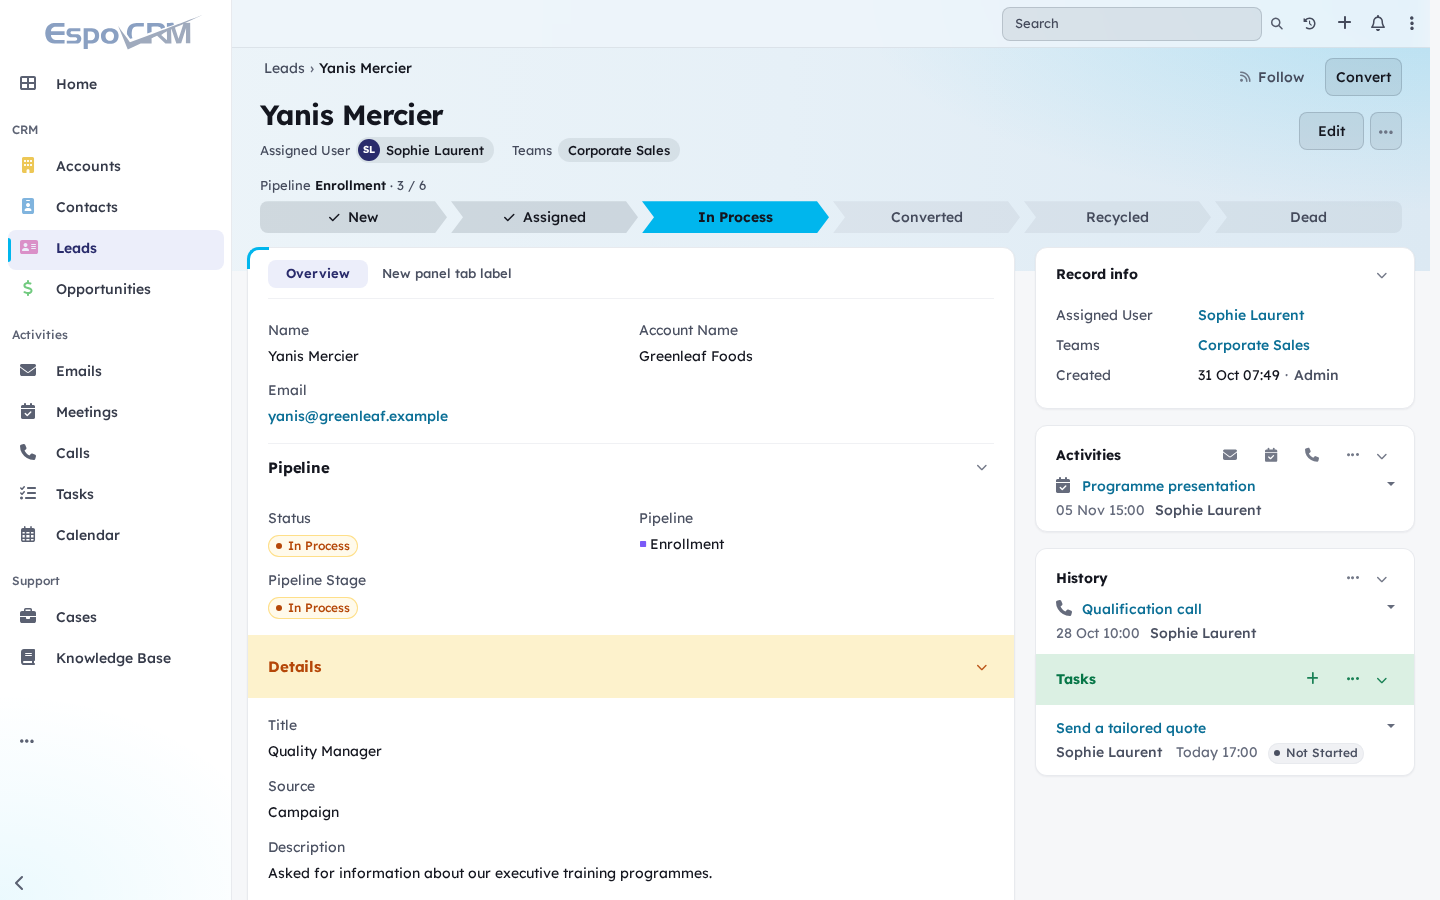
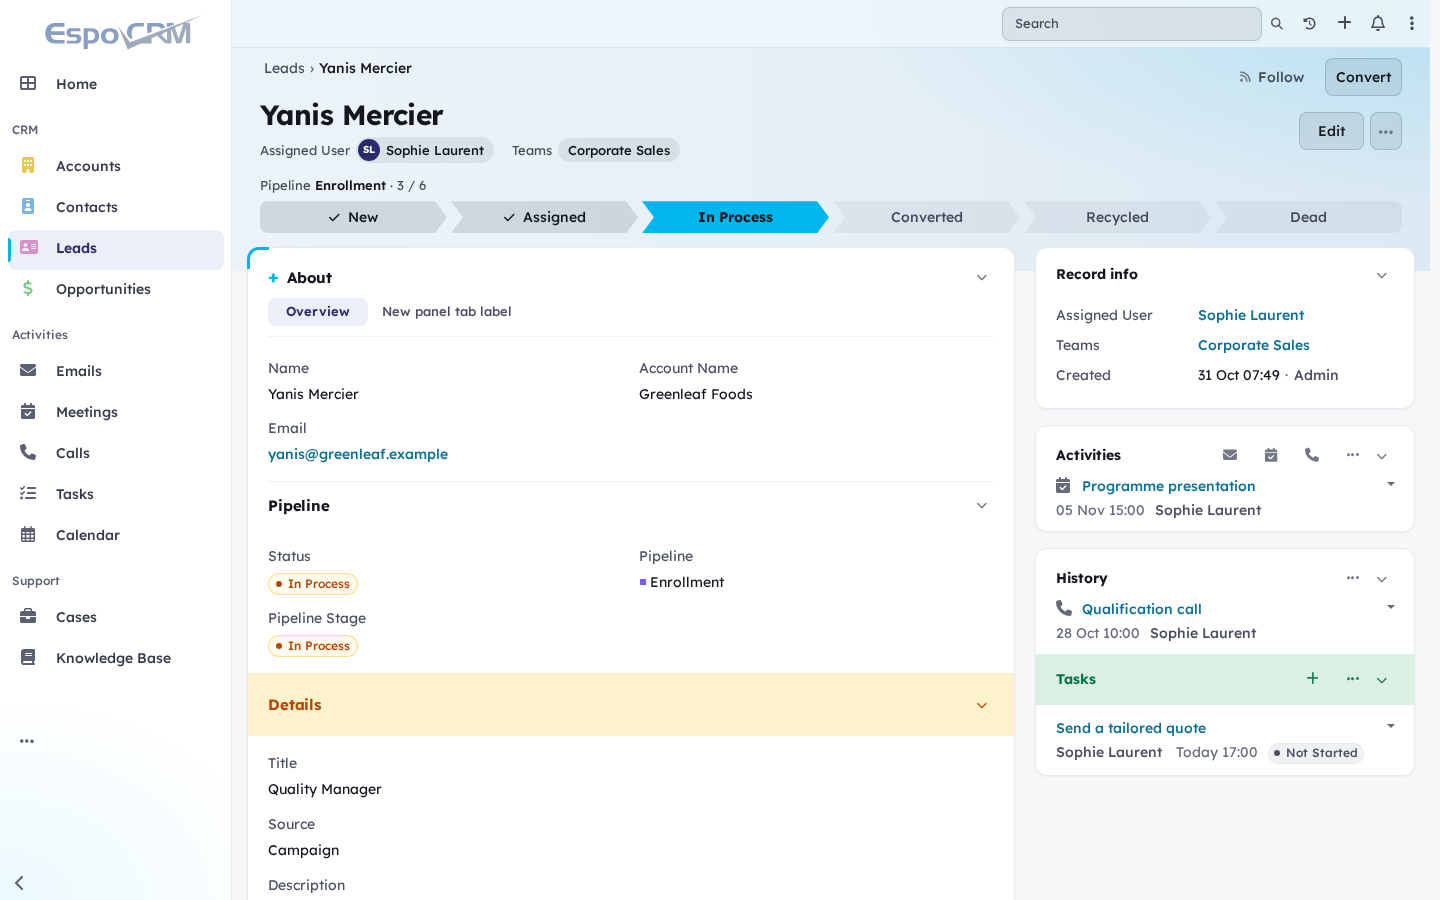
feat: Lucid Classic and Lucid Split names, collapsible main blocks
- The themes are displayed as Lucid Classic and Lucid Split. The internal key
  of Lucid Split stays `Lucid`, so nobody loses their theme on upgrade.
- The fields card of Lucid Classic gets the "About" title and folds like the
  other blocks.
- The bottom panels block folds in both themes: the tab bar is its heading,
  and a click on a tab opens it again.
- A clicked chevron no longer keeps a grey background.

diff --git a/src/files/client/custom/modules/lucid-theme/css/lucid-detail.css b/src/files/client/custom/modules/lucid-theme/css/lucid-detail.css
@@ -724,7 +724,7 @@ button.lucid-step-inner:focus-visible {
 /* Classic layout: fields and bottom panels on the left, side panels on the right */
 .lucid-layout-classic .lucid-content-card {
     position: relative;
-    padding-top: var(--12px);
+    padding-top: var(--16px);
 }
 
 .lucid-layout-classic > .lucid-inspector > .side {
@@ -924,6 +924,7 @@ body.lucid-resizing * {
 
 /* ===== Main column: tabs ===== */
 .lucid-record .bottom.lucid-bottom {
+    position: relative;
     display: flex;
     flex-direction: column;
     gap: var(--20px);
@@ -940,7 +941,7 @@ body.lucid-resizing * {
     align-items: flex-end;
     gap: 2px;
     margin: 0 calc(var(--18px) * -1);
-    padding: 0 var(--14px);
+    padding: 0 44px 0 var(--14px);
     border-bottom: 1px solid var(--lucid-border);
     overflow-x: auto;
 }
@@ -1343,18 +1344,35 @@ body.lucid-resizing * {
     color: var(--lucid-text);
 }
 
+/* No lingering background after a mouse click: keyboard focus stays visible */
+.lucid-record .lucid-collapse:focus:not(:focus-visible):not(:hover) {
+    background: transparent;
+}
+
 .lucid-record .lucid-collapse .fas {
     font-size: 11px;
     transition: transform var(--lucid-fast) var(--lucid-ease);
 }
 
+/* The tab bar scrolls sideways: its chevron is placed from the block, and stays visible */
+.lucid-tabbar > .lucid-collapse {
+    position: absolute;
+    top: 12px;
+    right: var(--14px);
+}
+
 .lucid-collapsed > .panel-heading > .lucid-collapse .fas,
+.lucid-content-card.lucid-collapsed > .lucid-inspector-title .lucid-collapse .fas,
+.lucid-main.lucid-collapsed .lucid-tabbar > .lucid-collapse .fas,
 .lucid-inspector.lucid-collapsed > .lucid-inspector-card .lucid-inspector-title .lucid-collapse .fas {
     transform: rotate(-90deg);
 }
 
 /* Collapsed: only the heading remains. While editing, everything is open and the chevron disappears. */
 .lucid-record:not(:has(.lucid-band .edit-buttons:not(.hidden))) .panel.lucid-collapsed > :not(.panel-heading),
+.lucid-record:not(:has(.lucid-band .edit-buttons:not(.hidden))) .lucid-content-card.lucid-collapsed > :not(.lucid-inspector-title),
+.lucid-record:not(:has(.lucid-band .edit-buttons:not(.hidden))) .lucid-main.lucid-collapsed > .extra,
+.lucid-record:not(:has(.lucid-band .edit-buttons:not(.hidden))) .lucid-main.lucid-collapsed .lucid-bottom > :not(.lucid-tabbar),
 .lucid-record:not(:has(.lucid-band .edit-buttons:not(.hidden))) .lucid-inspector.lucid-collapsed > .lucid-inspector-card > :not(.lucid-inspector-title),
 .lucid-record:not(:has(.lucid-band .edit-buttons:not(.hidden))) .lucid-inspector.lucid-collapsed:not(:has(> .lucid-inspector-card > .middle)) > .side > .panel[data-name="default"] {
     display: none;
@@ -1367,8 +1385,17 @@ body.lucid-resizing * {
     box-shadow: var(--lucid-shadow-xs);
 }
 
+.lucid-record:not(:has(.lucid-band .edit-buttons:not(.hidden))) .lucid-content-card.lucid-collapsed > .lucid-inspector-title,
 .lucid-record:not(:has(.lucid-band .edit-buttons:not(.hidden))) .lucid-inspector.lucid-collapsed > .lucid-inspector-card .lucid-inspector-title {
     margin-bottom: 0;
+}
+
+.lucid-record:not(:has(.lucid-band .edit-buttons:not(.hidden))) .lucid-main.lucid-collapsed .bottom.lucid-bottom {
+    padding-bottom: 0;
+}
+
+.lucid-record:not(:has(.lucid-band .edit-buttons:not(.hidden))) .lucid-main.lucid-collapsed .lucid-tabbar {
+    border-bottom: 0;
 }
 
 .lucid-record:not(:has(.lucid-band .edit-buttons:not(.hidden))) .lucid-inspector.lucid-collapsed > .side {

diff --git a/src/files/client/custom/modules/lucid-theme/src/helpers/panel-collapse.js b/src/files/client/custom/modules/lucid-theme/src/helpers/panel-collapse.js
@@ -8,13 +8,14 @@ const PANEL_SELECTOR = [
 ].join(', ');
 
 /** Watched areas: panels are redrawn there after each change. */
-const WATCHED_SELECTOR = '.lucid-inspector, .lucid-content-card';
+const WATCHED_SELECTOR = '.lucid-inspector, .lucid-content-card, .lucid-main';
 
 /** Heading elements that keep their own click behaviour. */
 const INTERACTIVE_SELECTOR = 'a, button, input, select, [data-action], .dropdown-menu';
 
-/** Reserved name for the "About" card. */
+/** Reserved names for the "About" card and the bottom panels block. */
 const ABOUT = 'lucidAbout';
+const BOTTOM = 'lucidBottom';
 
 const STORAGE_TYPE = 'lucidCollapsedPanels';
 
@@ -103,6 +104,52 @@ export default class PanelCollapse {
         if (aboutTitle && aboutContent) {
             this.decorate(inspector, aboutTitle, aboutTitle.textContent.replace('+', '').trim(), ABOUT);
         }
+
+        this.decorateContentCard(root);
+        this.decorateBottom(root);
+    }
+
+    /**
+     * Classic layout: the fields card has the same "About" title as in Lucid Split.
+     *
+     * @private
+     * @param {HTMLElement} root
+     */
+    decorateContentCard(root) {
+        const card = root.querySelector('.lucid-layout-classic .lucid-content-card');
+        const title = card && card.querySelector(':scope > .lucid-inspector-title');
+
+        if (title) {
+            this.decorate(card, title, title.textContent.replace('+', '').trim(), ABOUT);
+        }
+    }
+
+    /**
+     * Bottom panels block: the tab bar is its heading. The bottom view rebuilds the bar when the
+     * tab changes, so it is decorated again each time. A click on a tab opens a collapsed block.
+     *
+     * @private
+     * @param {HTMLElement} root
+     */
+    decorateBottom(root) {
+        const main = root.querySelector('.lucid-main');
+        const bar = main && main.querySelector('.lucid-tabbar');
+
+        if (!bar) {
+            return;
+        }
+
+        if (!bar.querySelector(':scope > .lucid-collapse')) {
+            bar.addEventListener('click', event => {
+                if (event.target.closest('.lucid-tab') && this.collapsed.has(BOTTOM)) {
+                    this.toggle(BOTTOM);
+                }
+            });
+        }
+
+        const activeLabel = bar.querySelector('.lucid-tab[aria-pressed="true"] .lucid-tab-label');
+
+        this.decorate(main, bar, activeLabel ? activeLabel.textContent : bar.getAttribute('aria-label'), BOTTOM);
     }
 
     /**

diff --git a/src/files/client/custom/modules/lucid-theme/src/lucid.js b/src/files/client/custom/modules/lucid-theme/src/lucid.js
@@ -5,7 +5,10 @@
 /** Bottom panels of the Activity tab, below the quick actions. */
 export const ACTIVITY_PANELS = ['stream'];
 
-/** Theme with the classic layout: fields and bottom panels on the left, side panels on the right. */
+/**
+ * Theme with the classic layout: fields and bottom panels on the left, side panels on the right.
+ * The other theme keeps its original key, `Lucid`, and is displayed as Lucid Split.
+ */
 const CLASSIC_THEME = 'LucidClassic';
 
 /**

diff --git a/README.md b/README.md
@@ -26,10 +26,10 @@ stage moves the record along its pipeline.
 Installing the extension adds two entries to the theme list. They share the same design and features;
 only the arrangement of the record view changes.
 
-| **Lucid** (side by side) | **Lucid Classic** |
+| **Lucid Classic** | **Lucid Split** |
 |---|---|
-| ![Lucid: fields on the left, activity on the right](docs/screenshots/record-lead.png) | ![Lucid Classic: fields and bottom panels on the left, side panels on the right](docs/screenshots/record-lead-classic.png) |
-| Fields on the left, bottom panels on the right: the activity is visible as soon as the record opens | Fields and bottom panels on the left, side panels on the right, as in stock EspoCRM |
+| ![Lucid Classic: fields and bottom panels on the left, side panels on the right](docs/screenshots/record-lead-classic.png) | ![Lucid Split: fields on the left, activity on the right](docs/screenshots/record-lead.png) |
+| Fields and bottom panels on the left, side panels on the right, as in stock EspoCRM | Fields on the left, bottom panels on the right: the activity is visible as soon as the record opens |
 
 The administrator sets the default in **Administration > User Interface**, and each user can pick
 another one in **Preferences**.
@@ -47,7 +47,7 @@ All data in the screenshots is fictitious.
 
 ## Features
 
-- **Side-by-side record view** (Lucid). The **About** card on the left holds the layout panels as a
+- **Side-by-side record view** (Lucid Split). The **About** card on the left holds the layout panels as a
   compact property list (tab breaks become small pill tabs), followed by a **Record info** card
   (assigned user, teams, dates, followers) and the side panels (Activities, History, Tasks…). The
   right column starts with the **Stream** tab — quick actions (Note, Email, Call, Meeting, Task)
@@ -58,8 +58,9 @@ All data in the screenshots is fictitious.
   entities with an active pipeline, the stage path (click a stage to move the record if you may
   edit it). On narrow screens the path folds into the current stage and a progress bar; tap it to
   see every stage.
-- **Collapsible blocks.** About, Record info, the side panels and each layout panel fold like an
-  accordion. The state is remembered per user and record type; everything opens while editing.
+- **Collapsible blocks.** About, Record info, the side panels, each layout panel and the bottom
+  panels block fold like an accordion. The state is remembered per user and record type; everything
+  opens while editing.
 - **Adjustable column.** A handle between the columns sets the width of the narrow column, from 300
   to 720 px (mouse, or arrow keys / Home / End; double-click to reset), remembered per user and per
   layout. The main column keeps at least 480 px.
@@ -98,7 +99,7 @@ Requires EspoCRM 10.0 or later and PHP 8.3+ (tested on 10.0.3 and 10.0.11).
 1. Download `lucid-theme-<version>.zip` from the
    [latest release](https://github.com/AlexisSantin/espocrm-lucid-theme/releases/latest).
 2. In EspoCRM: **Administration > Extensions > Upload**, choose the ZIP, then **Install**.
-3. Select **Lucid** or **Lucid Classic** in **Administration > User Interface > Theme** (default for
+3. Select **Lucid Classic** or **Lucid Split** in **Administration > User Interface > Theme** (default for
    everyone, also used on the login page) or per user in **Preferences**.
 
 Updates install the same way, over the previous version.
@@ -118,8 +119,8 @@ npm run extension     # build build/lucid-theme-<version>.zip
 - The module is bundled: in production EspoCRM loads `lib/module-lucid-theme.js` through
   `lib/init.js`, listed in `app/client.json` `scriptList`. Developer mode loads the transpiled
   sources instead, so test a release on an instance with developer mode off.
-- `Lucid` and `LucidClassic` load the same stylesheet; the handler picks the record template from the
-  theme name (`isClassicLayout` in `src/lucid.js`).
+- The themes `LucidClassic` and `Lucid` (displayed as Lucid Split) load the same stylesheet; the handler
+  picks the record template from the theme name (`isClassicLayout` in `src/lucid.js`).
 - The record view is applied by a `record/detail` view setup handler that derives the bottom view
   configured for the entity instead of replacing it. If it cannot apply (an unexpected EspoCRM
   version, for instance), the record keeps the EspoCRM layout. The module imports no EspoCRM client
@@ -127,7 +128,7 @@ npm run extension     # build build/lucid-theme-<version>.zip
 
 ```
 src/files/custom/Espo/Modules/LucidTheme/Resources/
-    metadata/themes/                    Lucid and LucidClassic: theme parameters, chart and calendar colours
+    metadata/themes/                    LucidClassic and Lucid (Lucid Split): parameters, chart and calendar colours
     metadata/app/client.json            lib/init.js (bundle loader in production)
     metadata/clientDefs/Global.json     view setup handlers
     i18n/en_US, i18n/fr_FR              the theme's own labels
